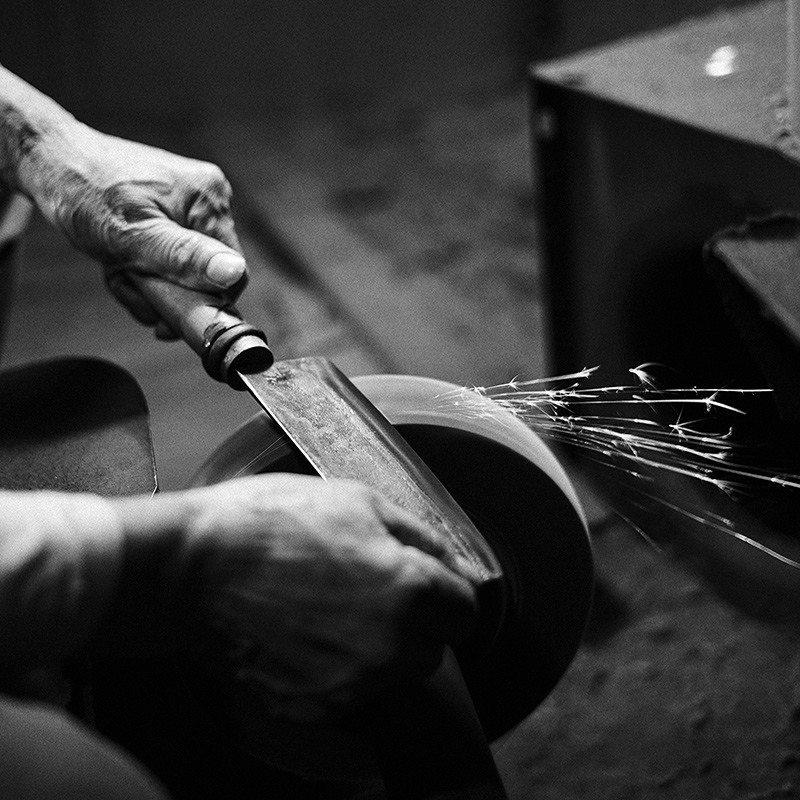
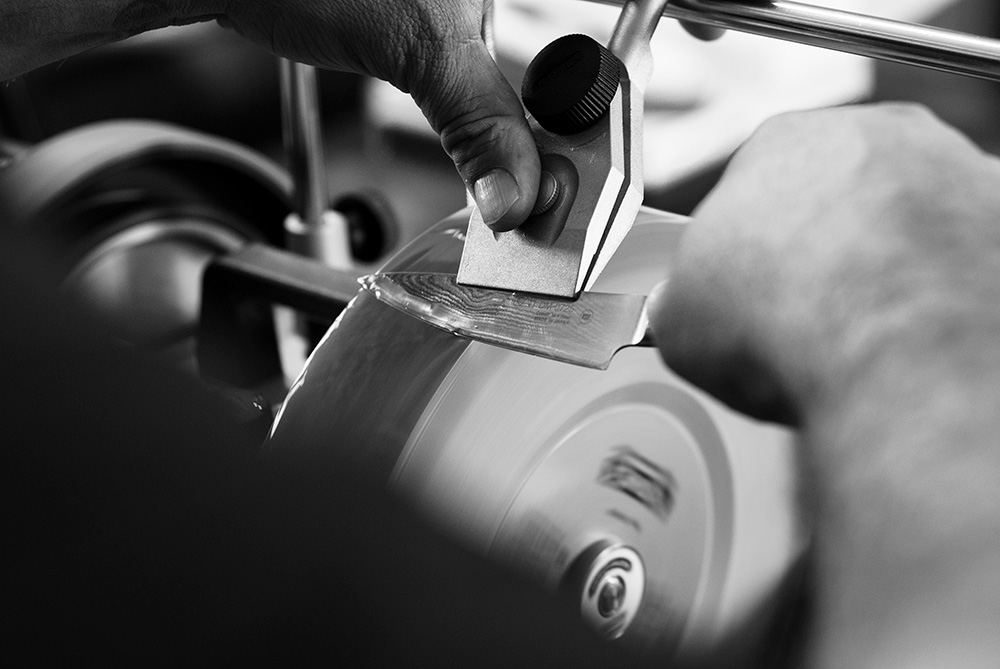
photo and content updates

diff --git a/index.html b/index.html
@@ -380,9 +380,49 @@
 							<h4>Sharpening</h4>
 							<p>Lorem ipsum Dolor deserunt labore sint officia. Magna et aute enim proident tempor sunt quis nulla voluptate fugiat velit. <a href="www.behance.net">Details</a></p>
 						</div>	               
-	        		</div> <!-- end folio-item -->   				
+	        		</div> <!-- end folio-item -->   		
+	        							<div class="brick folio-item">
+	               <div class="item-wrap animate-this"  data-src="images/portfolio/gallery/7.jpg"  data-sub-html="#07">     	
+	                  <a href="#" class="overlay">
+	                  	<img src="images/portfolio/7.jpg" alt="Salad">	                     
+	                     <div class="item-text">	     					    
+	                     	<span class="folio-types">
+		     					      Sharpening
+		     					   </span>
+		     					   <h3 class="folio-title">Wheel</h3>	     					   
+		     					</div>                                       
+	                  </a>
+	                  <a href="https://www.behance.net/" class='details-link' title="details">
+	                  	<i class="icon-link"></i>
+	                  </a>
+	               </div> <!-- end item-wrap -->
 
-   			</div> <!-- end folio-wrap -->
+	               <div id="06" class='hide'>
+							<h4>Sharpening</h4>
+							<p>Lorem ipsum Dolor deserunt labore sint officia. Magna et aute enim proident tempor sunt quis nulla voluptate fugiat velit. <a href="www.behance.net">Details</a></p>
+						</div>	               
+	        		</div> <!-- end folio-item -->   
+	        							<div class="brick folio-item">
+	               <div class="item-wrap animate-this"  data-src="images/portfolio/gallery/8.jpg"  data-sub-html="#08">     	
+	                  <a href="#" class="overlay">
+	                  	<img src="images/portfolio/8.jpg" alt="Salad">	                     
+	                     <div class="item-text">	     					    
+	                     	<span class="folio-types">
+		     					      Sharpening
+		     					   </span>
+		     					   <h3 class="folio-title">Wheel</h3>	     					   
+		     					</div>                                       
+	                  </a>
+	                  <a href="https://www.behance.net/" class='details-link' title="details">
+	                  	<i class="icon-link"></i>
+	                  </a>
+	               </div> <!-- end item-wrap -->
+
+	               <div id="06" class='hide'>
+							<h4>Sharpening</h4>
+							<p>Lorem ipsum Dolor deserunt labore sint officia. Magna et aute enim proident tempor sunt quis nulla voluptate fugiat velit. <a href="www.behance.net">Details</a></p>
+						</div>	               
+	        		</div> <!-- end folio-item -->   		
    		</div> <!-- end twelve -->
    	</div> <!-- end portfolio-content -->   	
 
